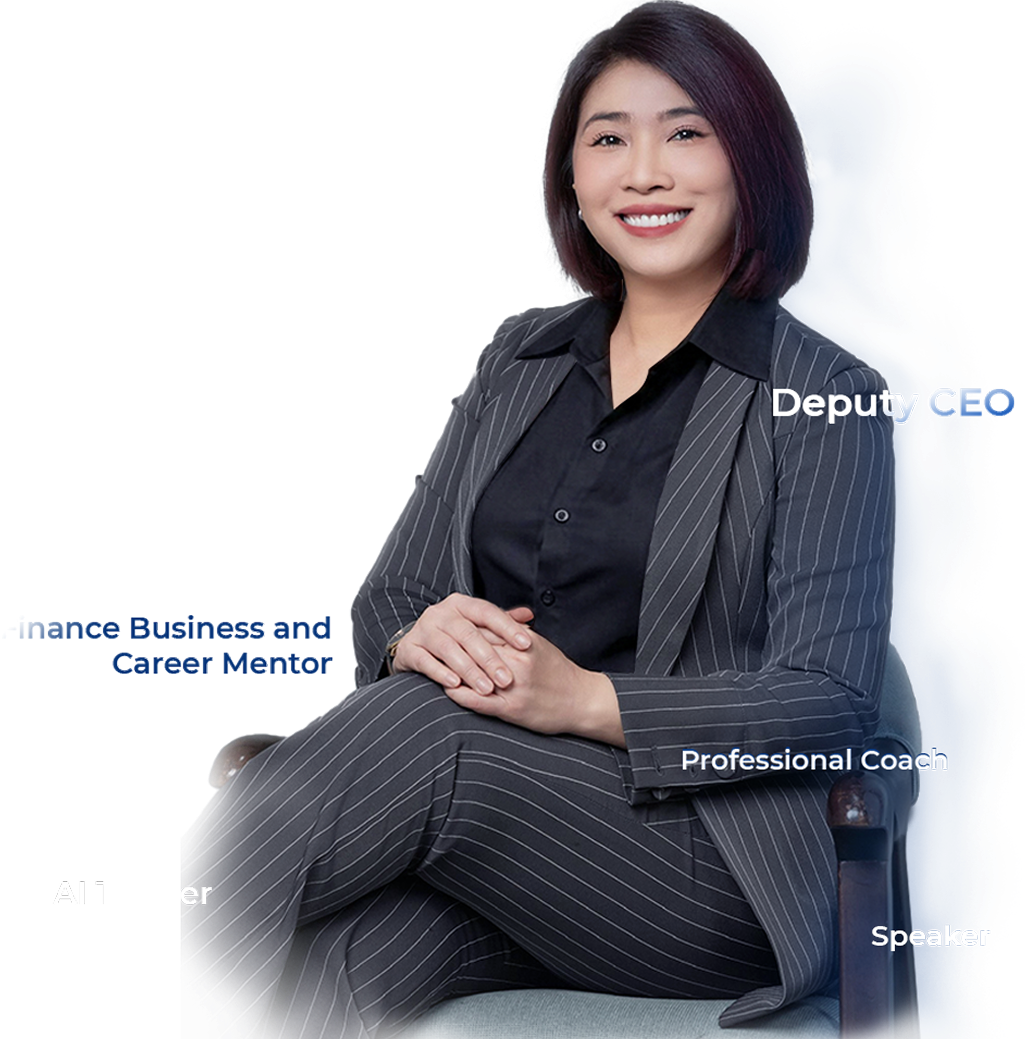
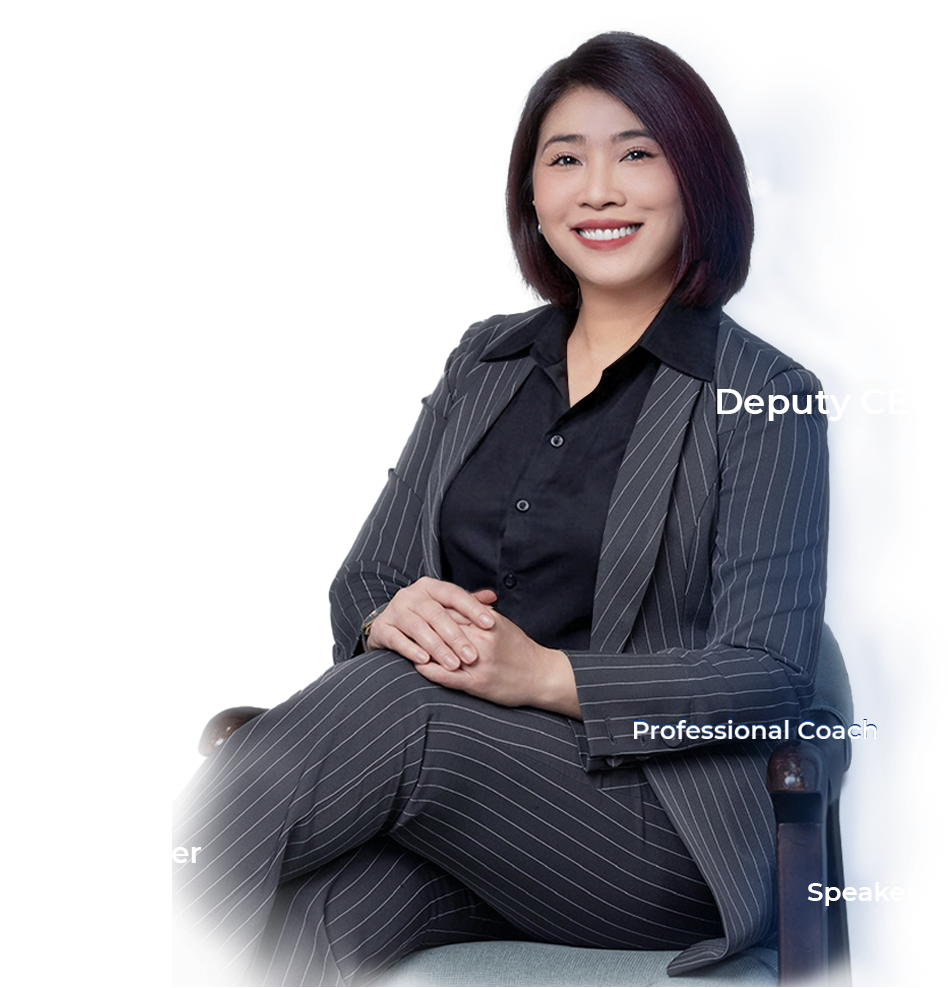
Update UI

diff --git a/src/components/home-page/hot-topics-section/HotTopicsSection.tsx b/src/components/home-page/hot-topics-section/HotTopicsSection.tsx
@@ -295,7 +295,7 @@ const HotTopicsSection = () => {
           partner: "UEH – ISB Talent School",
           role: "Judge",
           description:
-            "Analyzing workforce transformation, the role of digital platforms (Gig Economy), and the impact of AI on the economy.",
+            "Analyzing workforce transformation, the role of digital platforms (GIG Economy), and the impact of AI on the economy.",
         },
         Viet: {
           title:
@@ -303,7 +303,7 @@ const HotTopicsSection = () => {
           partner: "Trường Tài Năng UEH - ISB",
           role: "Ban giám khảo",
           description:
-            "Phân tích sự chuyển dịch của lực lượng lao động, vai trò của nền tảng số (Gig Economy) và tác động của AI đến nền kinh tế.",
+            "Phân tích sự chuyển dịch của lực lượng lao động, vai trò của nền tảng số (GIG Economy) và tác động của AI đến nền kinh tế.",
         },
       },
     },
@@ -343,7 +343,7 @@ const HotTopicsSection = () => {
           partner: "Trường Đại học Sài Gòn",
           role: "Ban giám khảo",
           description:
-            "Sân chơi học thuật giúp sinh viênhoàn thiện kỹ năng và bản lĩnh trước khi bước vào thị trường lao động thực tế.",
+            "Sân chơi học thuật giúp sinh viên hoàn thiện kỹ năng và bản lĩnh trước khi bước vào thị trường lao động thực tế.",
         },
       },
     },
@@ -361,7 +361,7 @@ const HotTopicsSection = () => {
         <Image
           src={item.image}
           alt="Partner Image"
-          className="w-full h-auto object-cover object-center md:scale-100"
+          className="w-full h-auto object-cover object-center scale-110 md:scale-100"
         />
 
         {/* Phần nội dung: Sử dụng flex-1 và flex-col để đẩy nút xuống */}
@@ -646,7 +646,7 @@ const HotTopicsSection = () => {
 
             {/* List description */}
             <div
-              className={`flex items-center justify-center text-left text-[12px] lg:text-[clamp(16px,14.456px+0.393vw,22px)] lg:w-5/7 mt-5 lg:mt-10`}
+              className={`flex items-center justify-center text-left text-[14px] lg:text-[clamp(16px,14.456px+0.393vw,22px)] leading-relaxed lg:leading-normal lg:w-5/7 mt-5 lg:mt-10`}
             >
               <ul className={`list-disc list-inside lg:list-outside lg:pl-10`}>
                 <li>
@@ -677,7 +677,7 @@ const HotTopicsSection = () => {
           <Image
             src={TuongVyImage3}
             alt="Tuong Vy"
-            className="w-8/10 lg:w-full h-auto object-contain block align-bottom lg:translate-x-[-10%] translate-x-[0%] mx-auto lg:mx-0"
+            className="w-7/10 lg:w-full h-auto object-contain block align-bottom lg:translate-x-[-10%] translate-x-[0%] mx-auto lg:mx-0"
             /* align-bottom và block giúp triệt tiêu khoảng hở inline phía dưới */
           />
         </div>

diff --git a/src/components/home-page/explotion-period-section/ExplotionPeriodSection.tsx b/src/components/home-page/explotion-period-section/ExplotionPeriodSection.tsx
@@ -393,7 +393,7 @@ const ExplotionPeriodSection = () => {
             className={`text-center lg:text-left lg:pl-[10%] w-fit shrink-0 mx-auto lg:mx-0`}
           >
             <div
-              className={`text-white italic font-medium text-[16px] lg:text-[clamp(25px,22.427px+0.655vw,35px)] leading-loose`}
+              className={`text-white italic font-medium text-[16px] lg:text-[clamp(25px,22.427px+0.655vw,35px)] leading-loose mb-2 lg:mb-0`}
             >
               {lang == "Viet" ? "TƯ VẤN CHIẾN LƯỢC" : "STRATEGIC CONSULTING"}
             </div>
@@ -413,8 +413,8 @@ const ExplotionPeriodSection = () => {
               unstyled
               className={`
               relative overflow-hidden
-              px-10 lg:px-35 py-4 mt-5 lg:mt-15
-              rounded-3xl lg:rounded-4xl border-2 border-[#C8971F]
+              px-10 lg:px-35 py-2 lg:py-4 mt-5 lg:mt-15
+              rounded-2xl lg:rounded-4xl border-2 border-[#C8971F]
               bg-[linear-gradient(90deg,#1F2833,#042B63)]
               text-[20px] lg:text-[clamp(25px,21.14px+0.982vw,40px)]
               animate-heartbeat
@@ -439,7 +439,7 @@ const ExplotionPeriodSection = () => {
             <Image
               src={MethodEnd}
               alt="Method End"
-              className={`w-full h-full object-cover rounded-4xl lg:rounded-none`}
+              className={`w-full h-full object-cover rounded-2xl lg:rounded-none`}
             />
           </div>
         </div>

diff --git a/src/components/home-page/hero-section/HeroSection.tsx b/src/components/home-page/hero-section/HeroSection.tsx
@@ -307,10 +307,10 @@ const HeroSection = () => {
           href="https://www.linkedin.com/in/tran-thanh-nu-tuong-vy-a9252732/"
           target="_blank"
           rel="noopener noreferrer"
-          className={`absolute top-0 right-5`}
+          className={`absolute top-5 right-5`}
         >
           <div
-            className={`bg-[radial-gradient(circle,#5268D2_35%,#7DB3E2_100%)] rounded-xl aspect-square p-3 lg:p-5 flex items-center`}
+            className={`bg-[radial-gradient(circle,#5268D2_35%,#7DB3E2_100%)] rounded-lg aspect-square p-3 lg:p-5 flex items-center`}
           >
             <FontAwesomeIcon
               icon={faLinkedinIn}
@@ -322,11 +322,11 @@ const HeroSection = () => {
         <Image
           src={TuongVyMobileImage}
           alt="Tuong Vy Image"
-          className={`w-9/10 h-auto mx-auto mt-17`}
+          className={`w-10/10 h-auto mx-auto mt-17`}
         />
 
         {/* Khối Tên */}
-        <div className="text-center w-full space-y-2 -mt-2 mb-5">
+        <div className="text-center w-full space-y-2 -mt-5 mb-5">
           <div className="bg-linear-to-br from-[#ffffff] to-[#a8abab] bg-clip-text text-transparent font-bold leading-[1.1]">
             <div className="text-[clamp(2.5rem,10vw,3.5rem)]">
               {lang == "Viet" ? "TRẦN THANH NỮ" : "TRAN THANH NU"}

diff --git a/src/components/home-page/certificate-section/CertificateSection.tsx b/src/components/home-page/certificate-section/CertificateSection.tsx
@@ -225,12 +225,12 @@ const CertificateSection = () => {
       >
         <div
           //   className={`text-center text-[clamp(25px,8.28px+4.254vw,90px)] font-extrabold`}
-          className={`text-center text-[22px] lg:text-[clamp(20px,1.987px+4.584vw,90px)] font-extrabold`}
+          className={`text-center text-[24px] lg:text-[clamp(20px,1.987px+4.584vw,90px)] font-extrabold`}
         >
           {lang === "Viet" ? "CHỨNG NHẬN ĐỒNG HÀNH" : "CERTIFIED PARTNERSHIPS"}
         </div>
         <div
-          className={`text-white text-center px-4 w-8/10 lg:w-20/20 mx-auto text-[8px] lg:text-[clamp(10px,6.136px+0.982vw,25px)] font-medium`}
+          className={`text-white text-center px-4 w-9/10 lg:w-20/20 mx-auto text-[10px] lg:text-[clamp(10px,6.136px+0.982vw,25px)] font-medium`}
         >
           {lang === "Viet"
             ? "Mỗi hành trình trải qua đều mang theo giá trị ý nghĩa được chứng nhận bởi các đơn vị, doanh nghiệp đồng hành."
@@ -238,7 +238,7 @@ const CertificateSection = () => {
         </div>
       </div>
       <div
-        className={`${styles.carouselWrapper} w-9/10! mx-auto mt-5 lg:mt-10 pb-20 lg:pb-30`}
+        className={`${styles.carouselWrapper} w-9/10! mx-auto mt-10 lg:mt-10 pb-20 lg:pb-30`}
       >
         <div className="">
           <Carousel

diff --git a/src/components/home-page/career-path-section/CareerPathSection.tsx b/src/components/home-page/career-path-section/CareerPathSection.tsx
@@ -95,7 +95,7 @@ const CareerPathSection = () => {
           className={`bg-linear-to-r  from-[#0957C9] via-[#0745A0] via-40% to-[#042B63] bg-clip-text text-transparent leading-tight text-[clamp(30px,19.7px+2.62vw,70px)] font-extrabold mx-auto`}
         >
           {lang == "Viet"
-            ? "KIẾN TẠO BỨC PHÁ SỰ NGHIỆP"
+            ? "KIẾN TẠO BỨT PHÁ SỰ NGHIỆP"
             : "CREATE YOUR CAREER BREAKTHROUGH"}
         </div>
         <div className={`text-sm lg:text-2xl mt-4`}>
@@ -140,7 +140,7 @@ const CareerPathSection = () => {
             </div>
           </div>
           <div
-            className={`bg-[#056CFF] -ml-5 flex justify-center items-center text-center w-5/15 lg:w-2/6 aspect-square rounded-full`}
+            className={`bg-[#056CFF] -ml-2 flex justify-center items-center text-center w-5/15 lg:w-2/6 aspect-square rounded-full`}
           >
             <div className={`w-3/4`}>
               {lang == "Viet"

diff --git a/src/components/home-page/experience-section/ExperienceSection.tsx b/src/components/home-page/experience-section/ExperienceSection.tsx
@@ -455,7 +455,7 @@ const ExperienceSection = () => {
         <a href="#covid-period">
           <Button
             unstyled
-            className={`lg:hidden px-5 lg:px-15 py-2 lg:py-4 bg-linear-to-r from-[#07367B] to-[#1F2833] rounded-2xl lg:rounded-4xl border-2 border-white text-[16px] lg:text-[32px]! lg:text-base font-bold text-white relative mx-auto hover:cursor-pointer hover:scale-105 transition-transform duration-300`}
+            className={`lg:hidden px-5 lg:px-15 py-2 lg:py-4 bg-linear-to-r from-[#07367B] to-[#1F2833] rounded-2xl lg:rounded-4xl border-1 border-white text-[16px] lg:text-[32px]! lg:text-base font-bold text-white relative mx-auto hover:cursor-pointer hover:scale-105 transition-transform duration-300`}
             label={
               lang == "Viet" ? "ĐÂY LÀ CÁCH TÔI LÀM!" : "THIS IS HOW I DO IT!"
             }